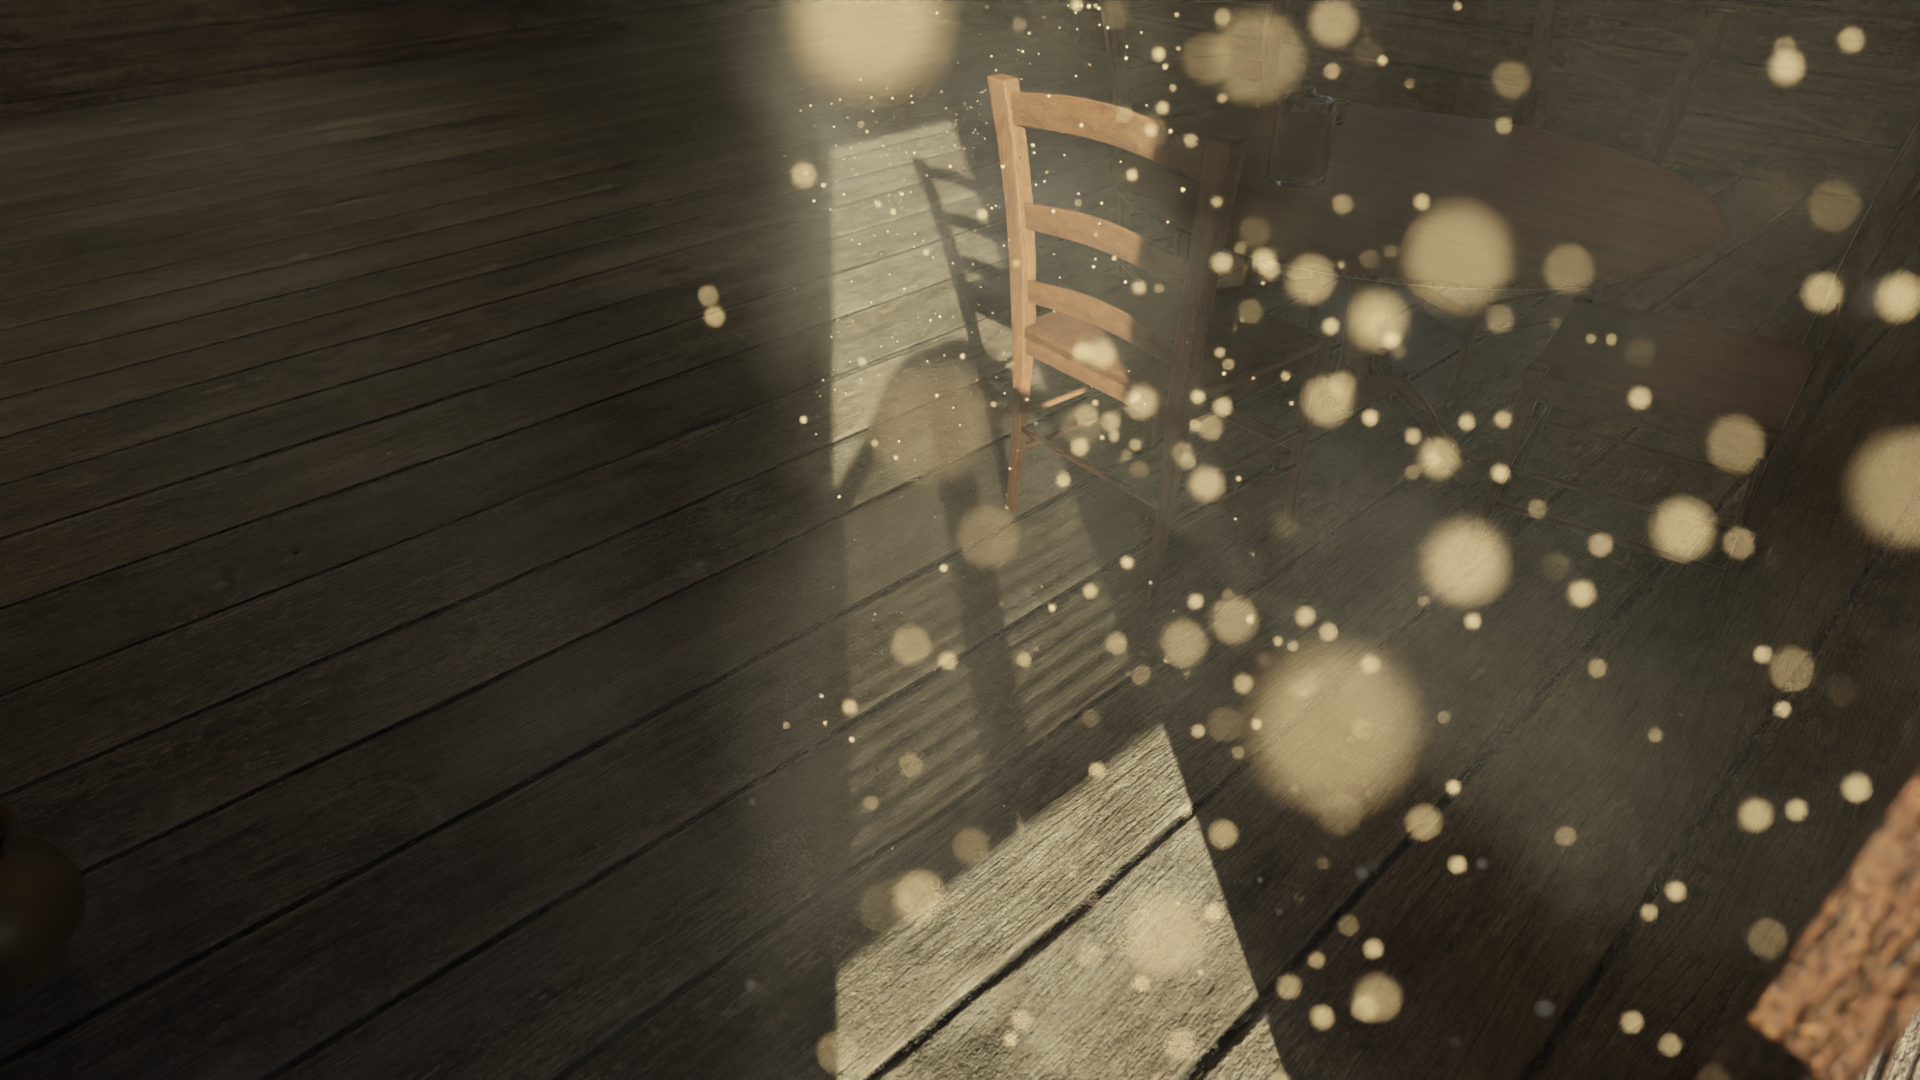
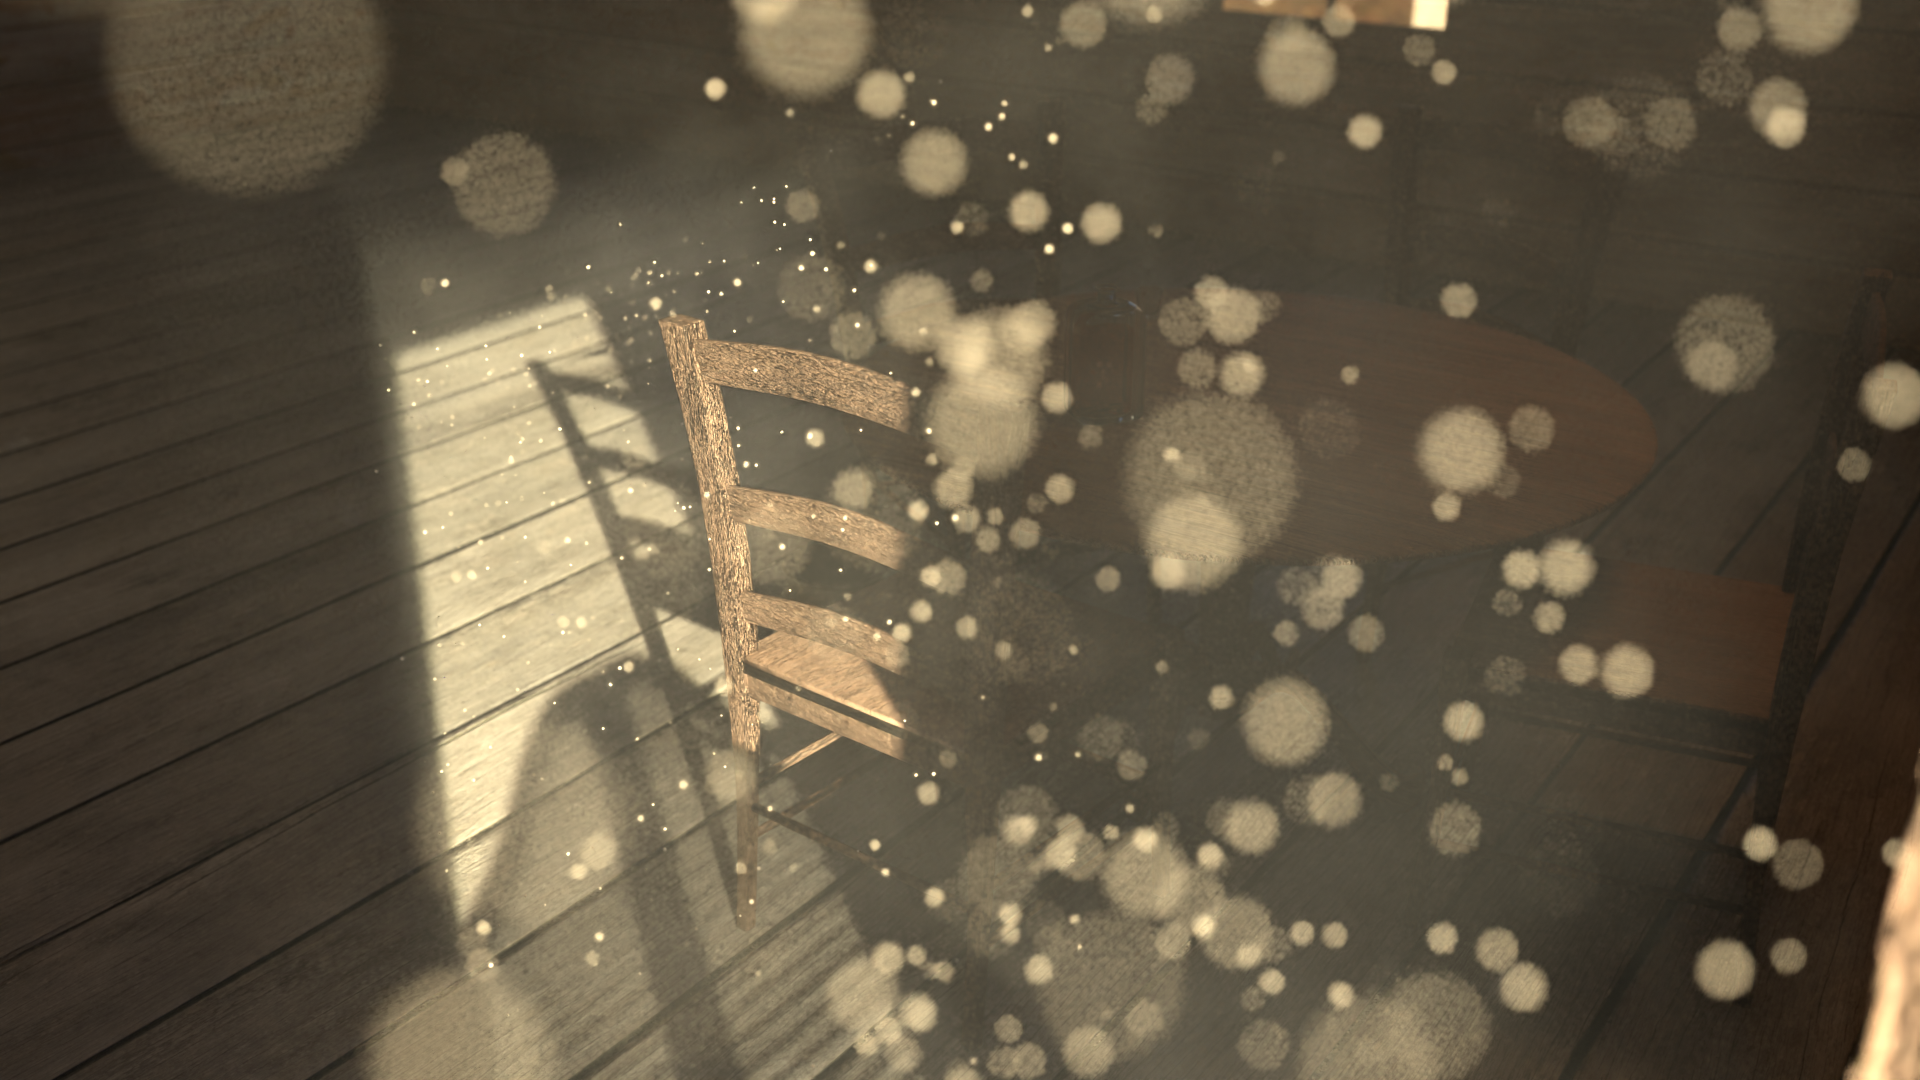
modif website and background images

diff --git a/index.html b/index.html
@@ -36,17 +36,23 @@
 
     <div class="card">
         <p>
-            Docteur en neurosciences, puis reconverti en 3D et développement logiciel. Aujourd’hui, je suis développeur spécialisé en 
-            <strong>C#/.NET</strong>, <strong>Unity VR</strong> et <strong>outils techniques</strong>.
+            Bienvenue sur mon site !
         </p>
-        <p>
-        Ingénieur 3D et développeur avec une expérience en VR/AR, habitué aux environnements pluridisciplinaires. 
-        J’aime analyser, préparer et optimiser des données 3D pour des applications immersives.
-        Rigoureux et autonome, j’apprécie comprendre les besoins utilisateurs et proposer des solutions fiables et adaptées.
+
+            <p>
+c'est un espace où je rassemble ce que je fais et ce qui m’anime : des projets immersifs, outils techniques, expériences de recherche et créations 3D.
+
+J’aime explorer, apprendre, construire - et partager.
+
+Je vis à Marseille et je suis ouvert aux projets en VR, outils techniques, R&D et développement logiciel.
         </p>
-        <p>
-            Basé à Marseille – ouvert aux projets VR, outils techniques, R&D, et développement logiciel.
+
+Mon parcours a commencé en neurosciences, puis s’est élargi à la 3D, à la VR et au développement logiciel. Pendant mon post‑doctorat, j’ai découvert 
+la puissance des environnements immersifs et la richesse de la création 3D. De retour en France, j’ai travaillé dans une plateforme de recherche 
+spécialisée en VR, où j’ai pu consolider mes compétences en modélisation, intégration et programmation.
+Aujourd’hui, je conçois des applications et des environnements interactifs qui mêlent science, technique et créativité.
         </p>
+        
     </div>
 
     <h1>Projets récents</h1>

diff --git a/assets/style.css b/assets/style.css
@@ -66,13 +66,13 @@ body {
     background-attachment: fixed;
 }
 .bg-unity {
-    background-image: url("Images/Background/8595519.jpg");
+    background-image: url("Images/Background/JnqTZnb-3d-backgrounds.jpg");
     background-size: cover;
     background-position: center;
     background-attachment: fixed;
 }
 .bg-modelisation {
-    background-image: url("Images/Background/0251.png");
+    background-image: url("Images/Background/island.png");
     background-size: cover;
     background-position: center;
     background-attachment: fixed;

diff --git a/contact.html b/contact.html
@@ -38,10 +38,10 @@
     </h4>
 
  <h4>lien GitLab : 
-        <a href="https://gitlab.com/dashboard/pictures"
+        <a href="https://gitlab.com/ZeirmanPro"
                  target="_blank"
                  class="lk underline"
-                 title="Voir sur ArtStation"> https://gitlab.com/dashboard/pictures
+                 title="Voir sur ArtStation"> https://gitlab.com/ZeirmanPro
         </a>
         <br>
         <br>

diff --git a/unity.html b/unity.html
@@ -22,12 +22,12 @@
 </header>
 
 <div class="container">
-    <h2 class="section-title">
+    <h2 class="section-title" id="quebecTour">
                 Projets Réalité Virtuelle
     </h2>
 
 
-    <div class="art-title-row" id="quebecTour">
+    <div class="art-title-row" >
         <h3>
                 QuebecTour360 
         </h3>
